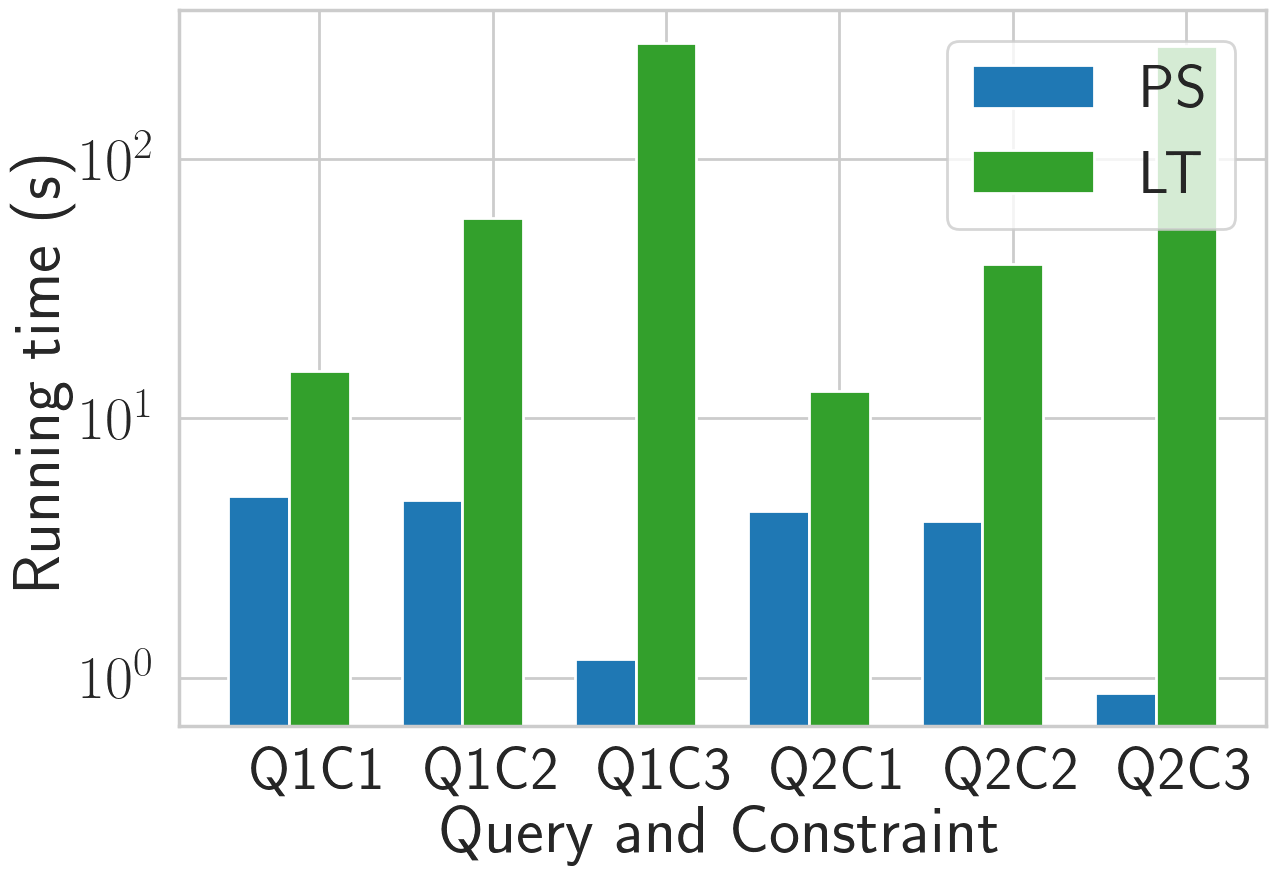
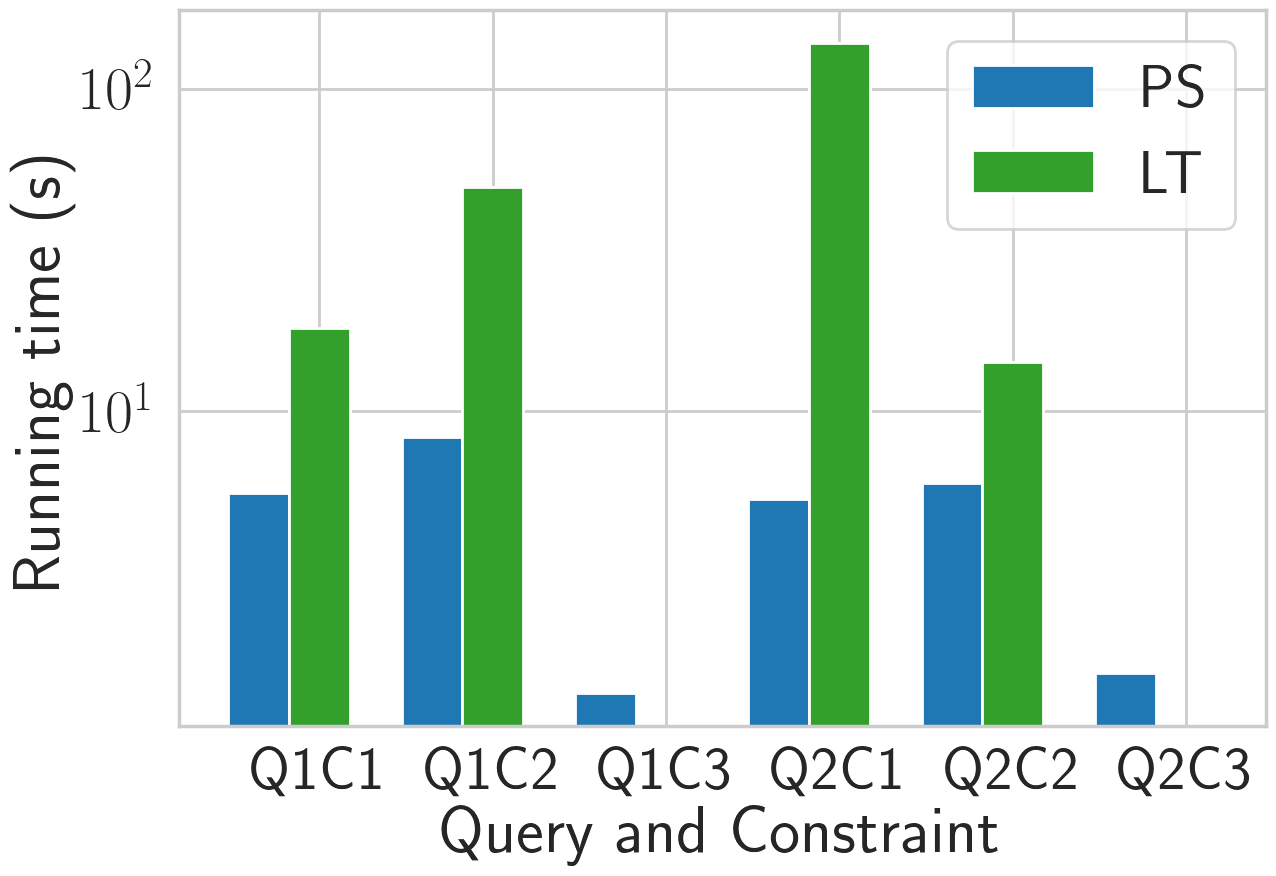
compas running time

diff --git a/Experiment/compas/running_time_0.py b/Experiment/compas/running_time_0.py
@@ -21,6 +21,7 @@ constraint_file_prefix = r"../../InputData/Compas/constraint"
 time_output_prefix = r"./result_"
 
 
+
 def file(q, c):
     time_output_file = time_output_prefix + str(q) + str(c) + ".csv"
     time_output = open(time_output_file, "w")
@@ -52,12 +53,22 @@ def compare(q, c, time_output):
         print("running time = {}".format(running_time2))
         print(*minimal_refinements2, sep="\n")
 
+
     time_output.write("\n")
-    idx = "q" + str(q) + "c" + str(c)
-    time_output.write("{}, {:0.2f}\n".format(idx, running_time1))
-    time_output.write("{}\n".format(idx))
+    idx = "Q" + str(q) + "C" + str(c)
+    time_output.write("{}, {:0.2f},\n".format(idx, running_time1))
+    if running_time2 < time_limit:
+        time_output.write("{}, {:0.2f}\n".format(idx, running_time2))
     time_output.write("\n".join(str(item) for item in minimal_refinements1))
     time_output.write("\n")
+    summary_file.write(("{},{:0.2f},".format(idx, running_time1)))
+    if running_time2 < time_limit:
+        summary_file.write("{:0.2f}\n".format(running_time2))
+    else:
+        summary_file.write("\n")
+
+summary_file = open(r"time.csv", "w")
+summary_file.write("file,PS,LT\n")
 
 
 def run(q, c):
@@ -72,3 +83,6 @@ run(1, 3)
 run(2, 1)
 run(2, 2)
 run(2, 3)
+
+summary_file.close()
+

diff --git a/Experiment/compas/fig.py b/Experiment/compas/fig.py
@@ -45,7 +45,10 @@ for line in Lines:
     items = line.strip().split(',')
     x_list.append(items[0])
     execution_timeps.append(float(items[1]))
-    execution_timelt.append(float(items[2]))
+    if len(items) > 2:
+        execution_timelt.append(float(items[2]))
+    else:
+        execution_timelt.append(0)
 
 print(x_list, execution_timeps, execution_timelt)
 
